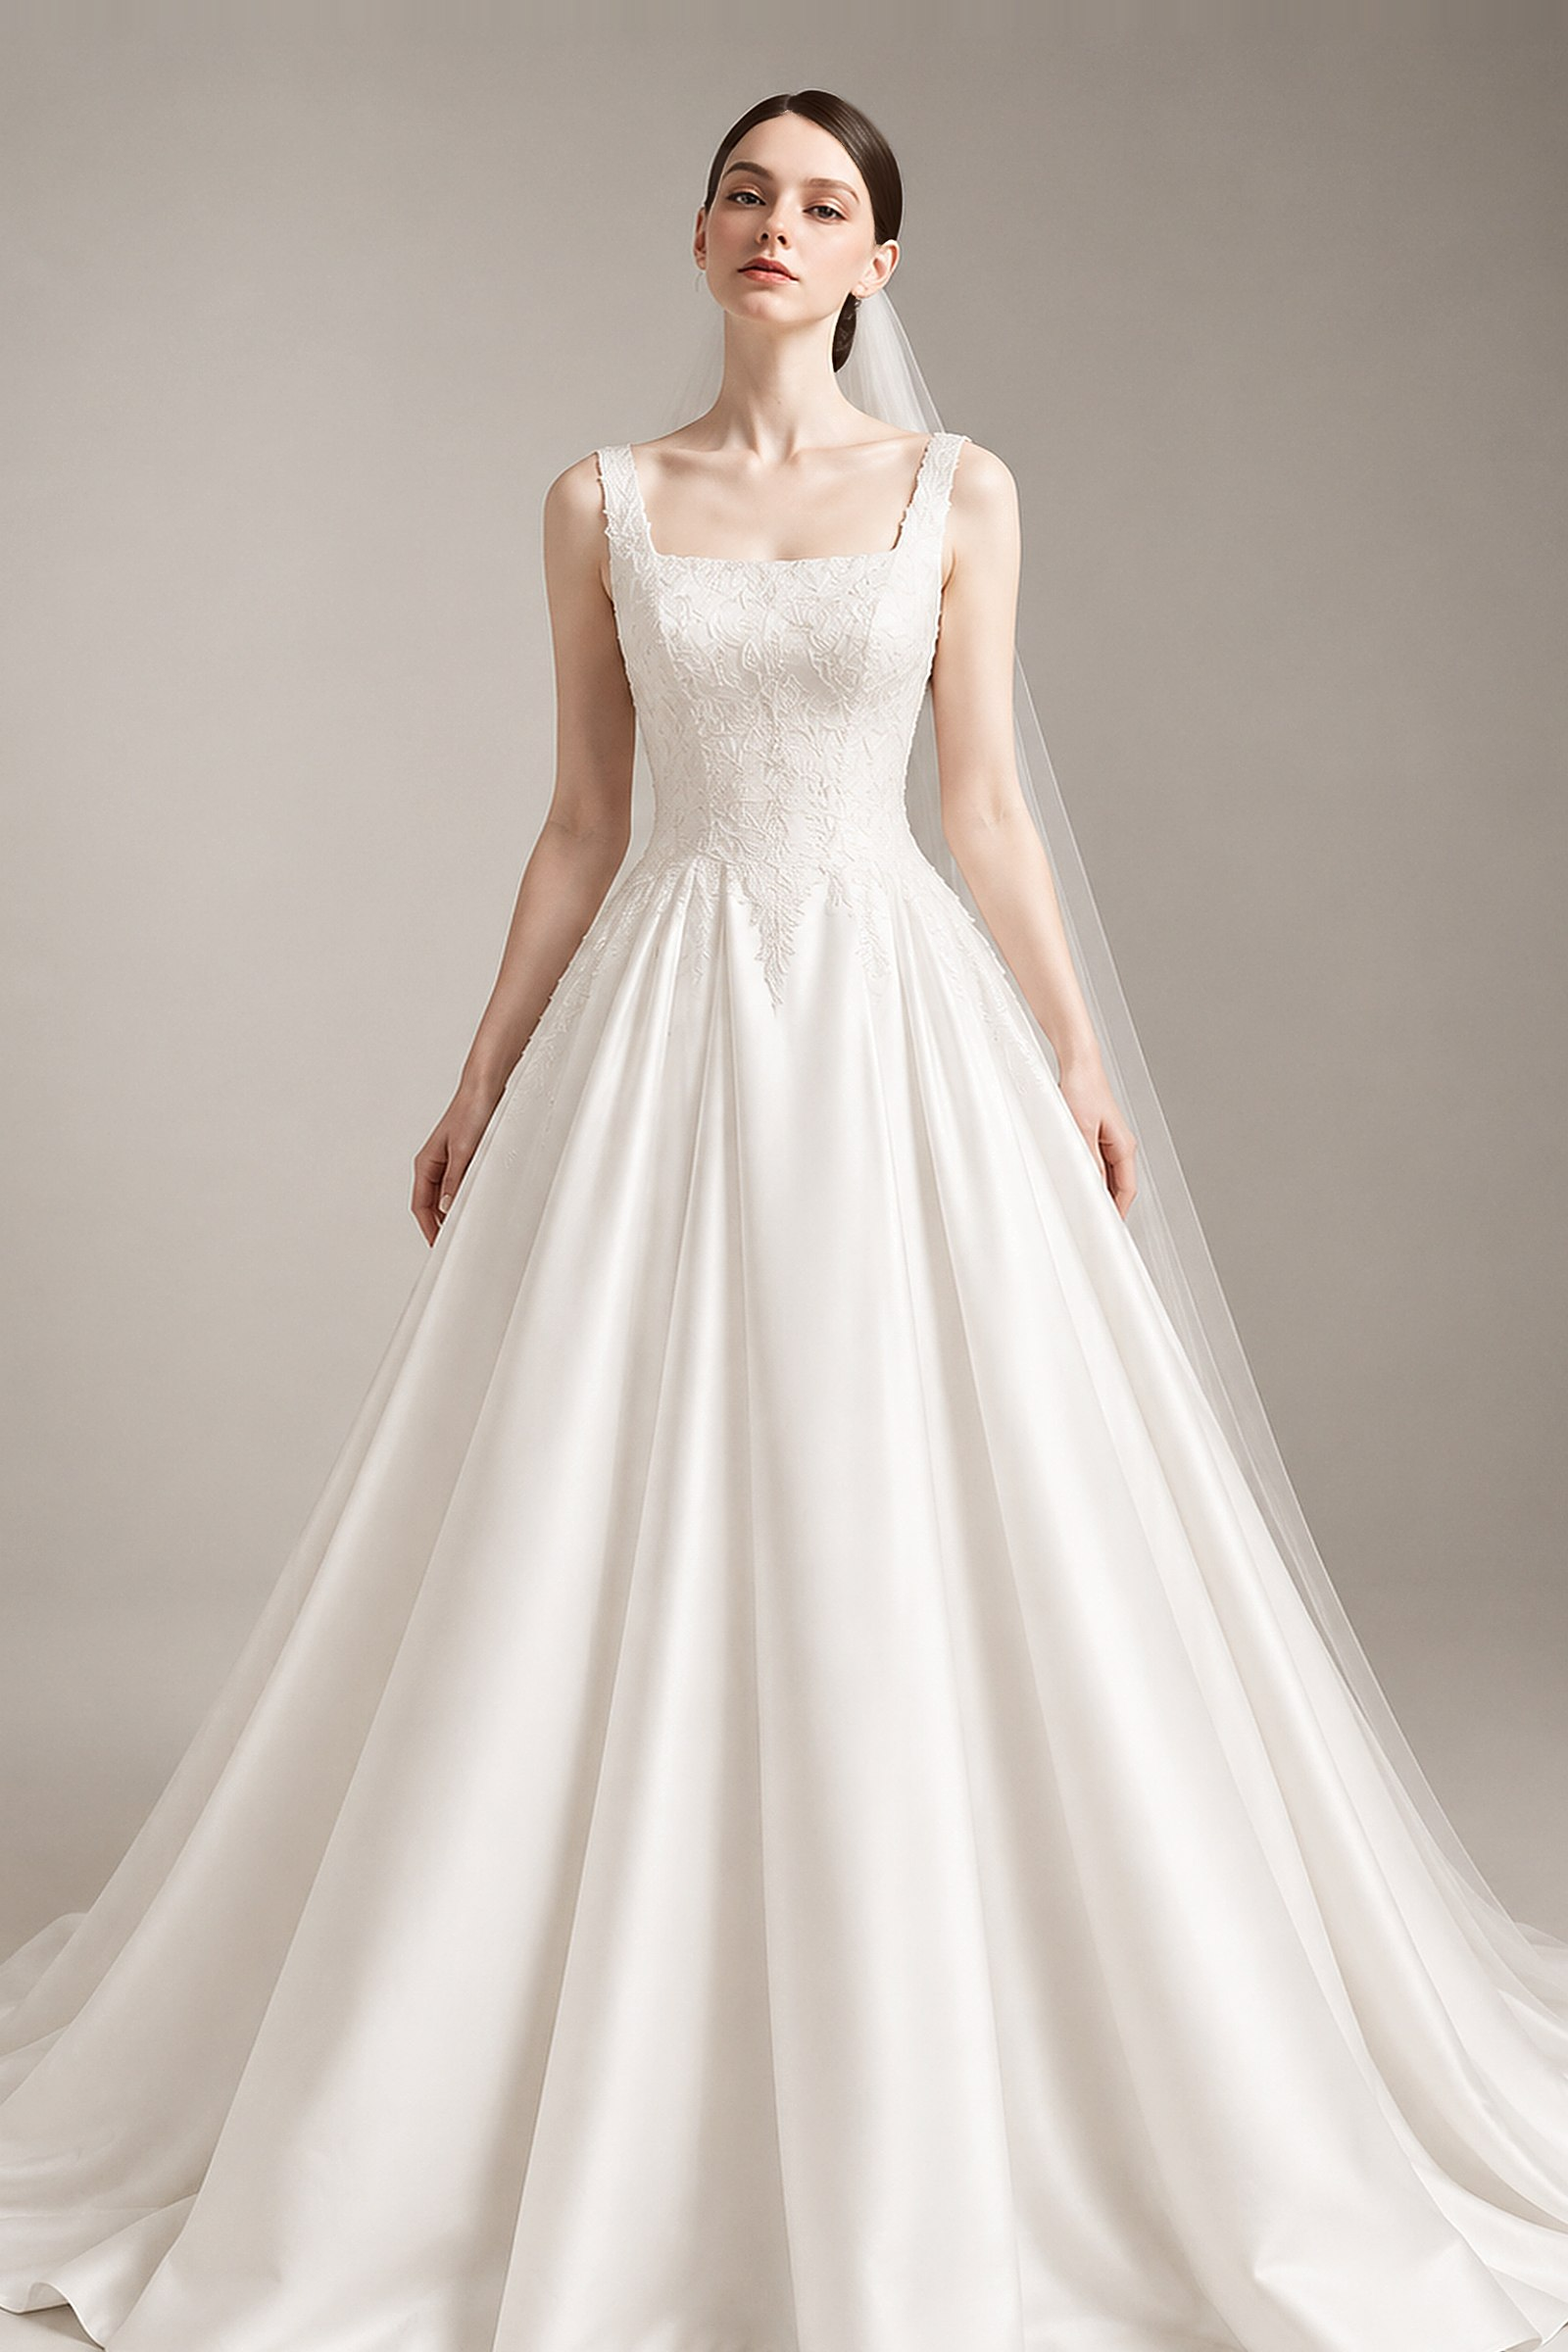
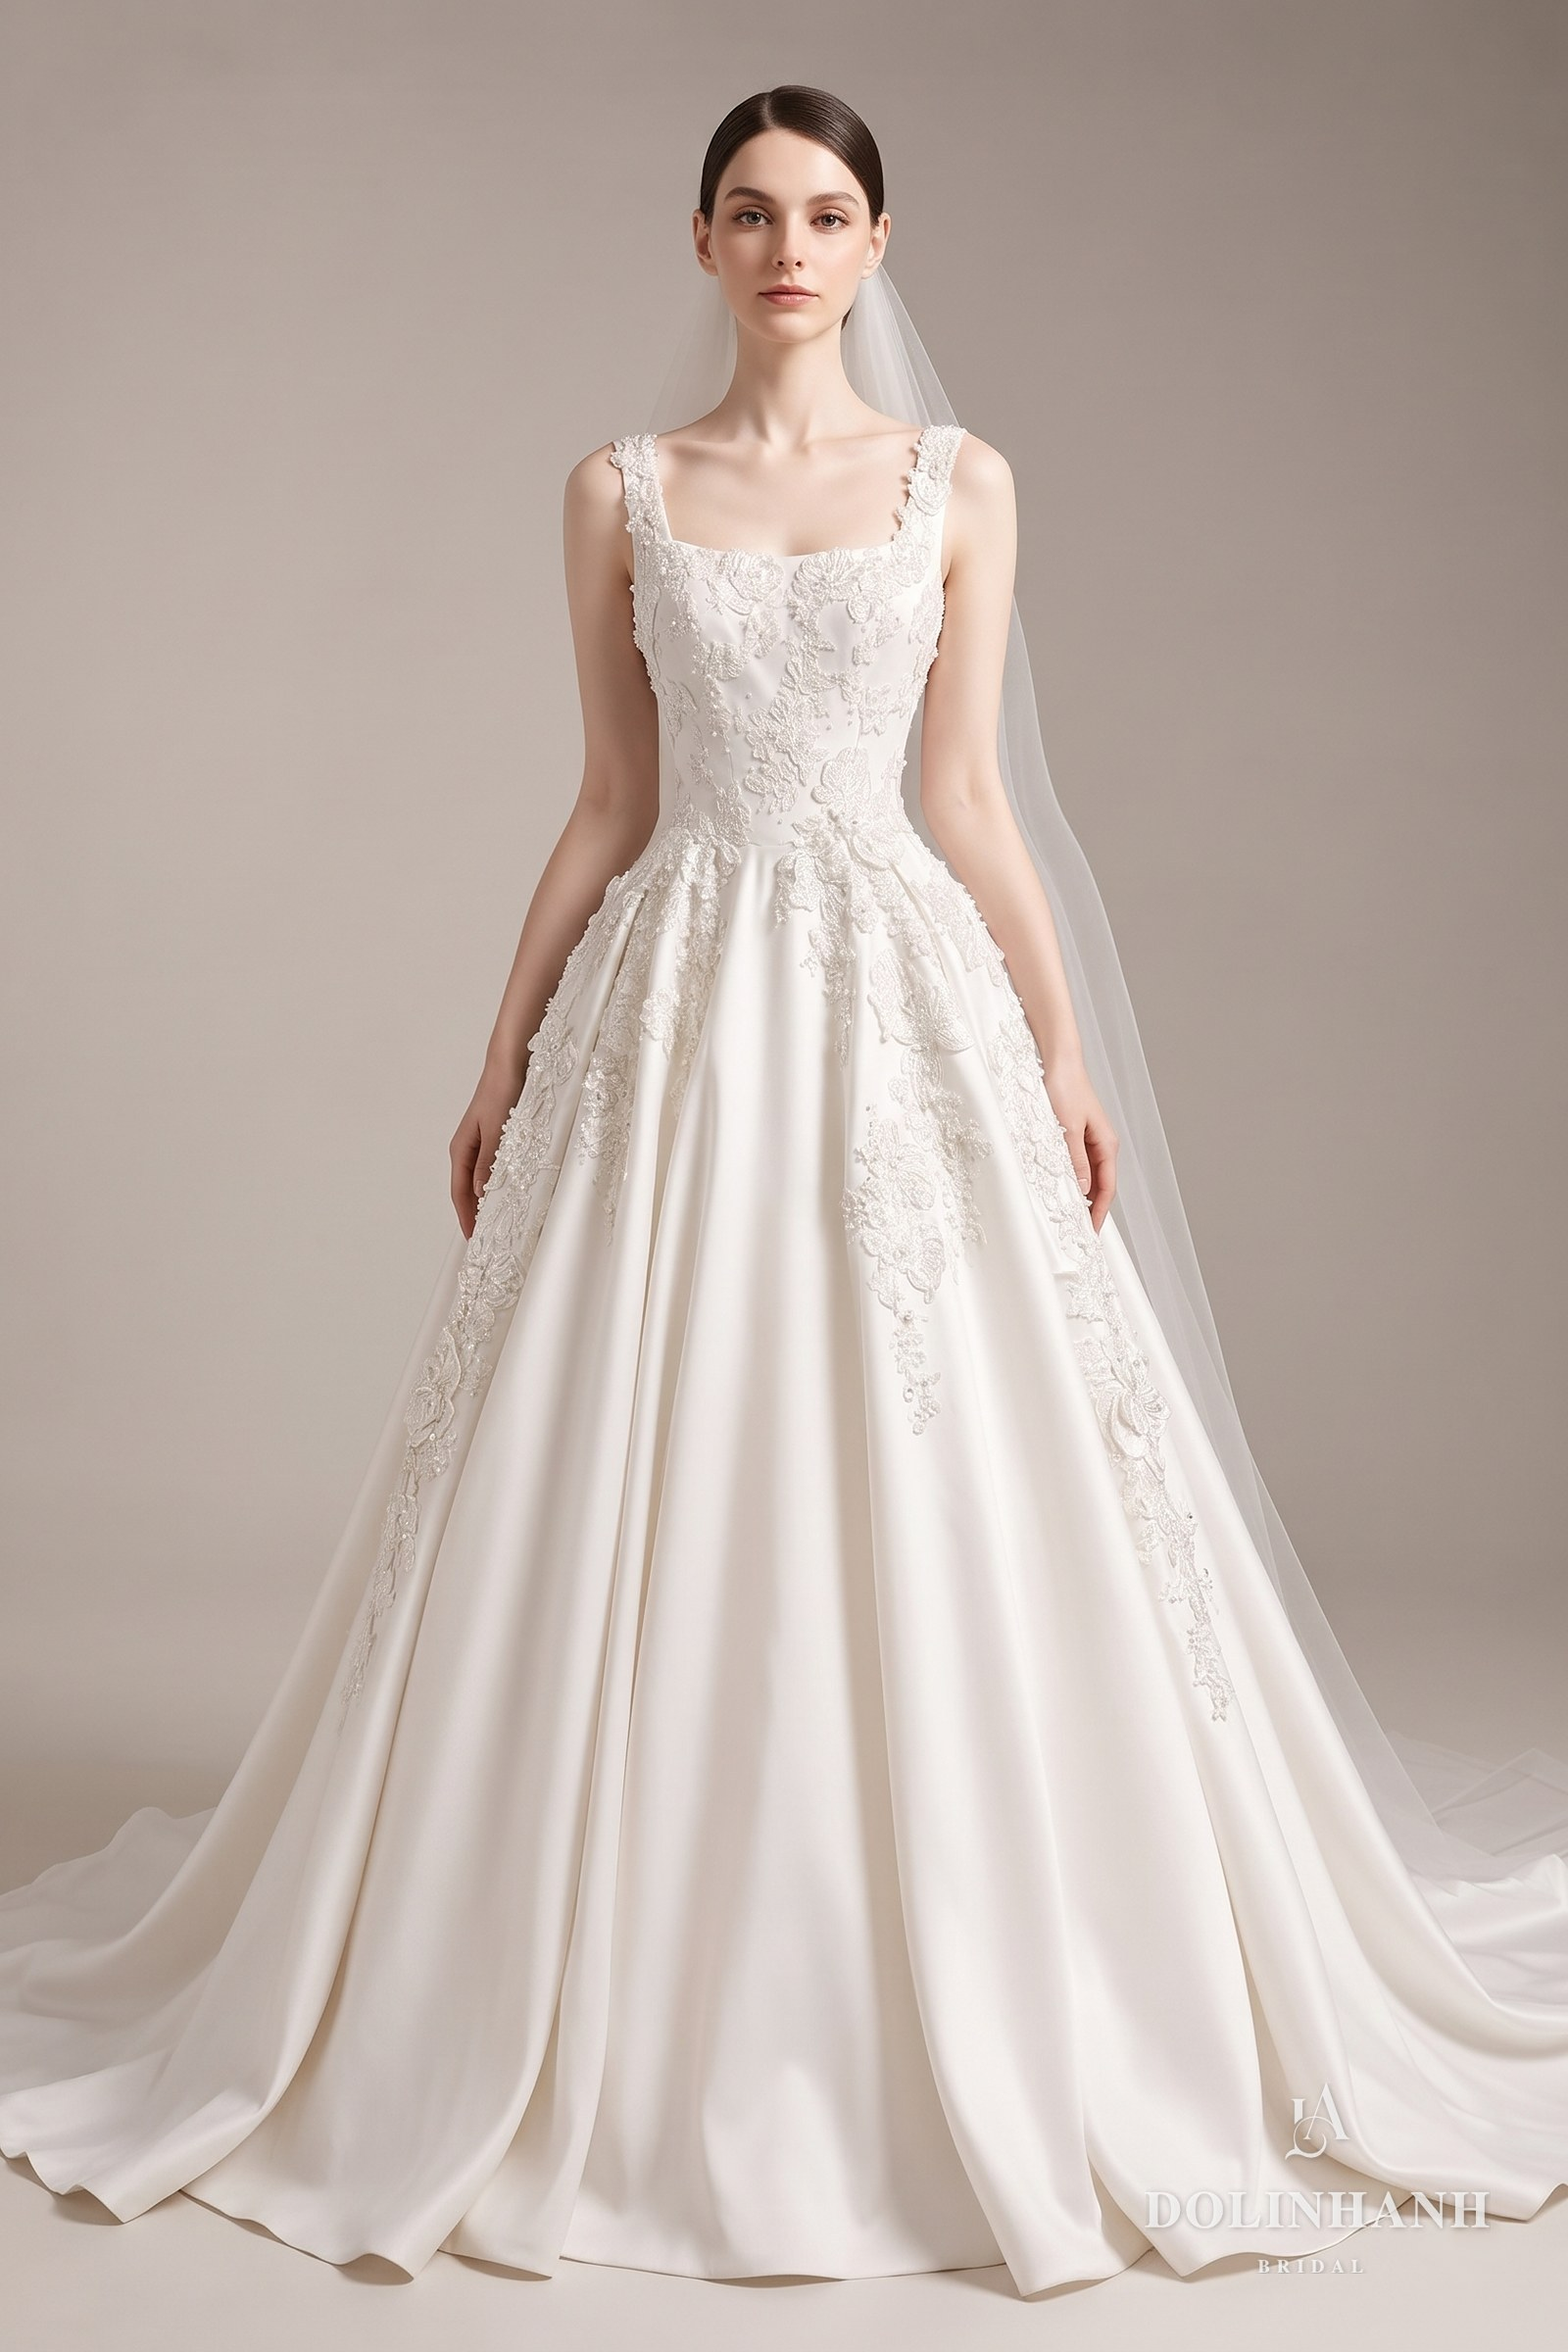
V168: sua anh MS 61 (bo ren giua chan vay, thu eo)

Changed region(s): [[0.0, 0.0312, 1.0, 1.0], [0.0, 0.75, 0.0625, 0.7812]]

diff --git a/bo-suu-tap.html b/bo-suu-tap.html
@@ -977,7 +977,7 @@ src="https://www.facebook.com/tr?id=1358640082651240&ev=PageView&noscript=1"
         </figure>
         <figure data-dang="a-line" data-mood="timeless" data-coso="hcm">
           <div class="sl-khung">
-            <div class="sl" data-img="anh/vay/ms61/01.jpg"></div>
+            <div class="sl" data-img="anh/vay/ms61/01.jpg?v=0511"></div>
           </div>
           <figcaption><span class="kind" data-en="Dolinhanh Bridal" data-zh="Dolinhanh Bridal">Dolinhanh Bridal</span><span class="nm">MS 61</span><span class="de" data-en="Satin, square neckline" data-zh="缎面，方领">Satin cổ vuông, hai dây</span><span class="gia">US$1,080</span></figcaption>
         </figure>
